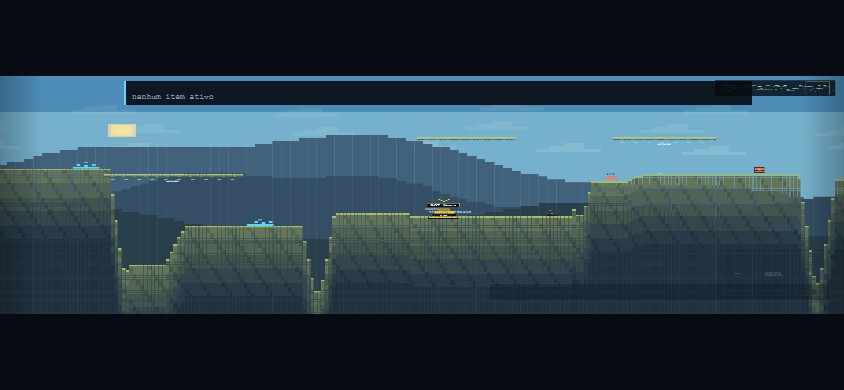
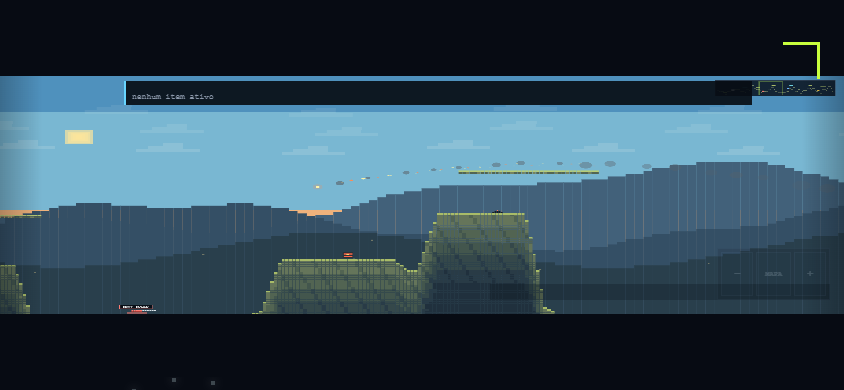
feat: rebrand game as TankDots Wars

Changed region(s): [[0.0, 0.3077, 1.0, 0.8308], [0.8934, 0.0923, 0.9858, 0.2462], [0.7085, 0.3385, 0.8626, 0.3692]]

diff --git a/client/styles.css b/client/styles.css
@@ -68,6 +68,69 @@ body.playing .desktop-help{flex:0 0 auto}
 .new-arsenal-art{position:relative;background-image:linear-gradient(145deg,#162231,#050a11)!important;overflow:hidden}.new-arsenal-art:before,.new-arsenal-art:after{content:'';position:absolute;image-rendering:pixelated}.new-arsenal-art.grenade:before{width:28%;height:28%;left:36%;top:34%;background:#a8d66d;box-shadow:-5px 5px #476534,5px -5px #dfff91,13px -13px 0 -4px #f2d76b}.new-arsenal-art.mineLayer:before{width:58%;height:14%;left:21%;top:55%;background:#303844;box-shadow:-15px -10px #ffb35c,15px -10px #ffb35c,0 -18px #ff714d}.new-arsenal-art.moleBomb:before{width:48%;height:24%;left:26%;top:42%;background:#d6a46f;box-shadow:-12px 7px #754b32,12px 7px #754b32,0 -8px #ffe2a8}.new-arsenal-art.armoredDash:before{width:48%;height:22%;left:34%;top:38%;background:#ff8066;box-shadow:-10px 7px #633b3c,-22px 4px #ffe66d,-32px 4px #ff713d}.new-arsenal-art:after{left:10%;right:10%;bottom:16%;height:3px;background:var(--item);box-shadow:0 6px #ffffff18}
 .new-arsenal-art.arsenal-new-atlas{background-image:url('/assets/arsenal-card-atlas-new-v2.png')!important;background-size:500% auto!important;background-position:calc(var(--new-art-col) * 25%) center!important;background-repeat:no-repeat!important}.new-arsenal-art.arsenal-new-atlas:before,.new-arsenal-art.arsenal-new-atlas:after{display:none}
 .spectator-badge{align-self:center;padding:7px 10px;border:1px solid #68d5ff;background:#081421;color:#9ee8ff;font:800 8px var(--mono);letter-spacing:1px}.spectator-badge[hidden]{display:none}body.spectating .controls,body.spectating .powerup-hud,body.spectating #turnBanner{display:none}body.spectating .canvas-wrap{flex:1}
+
+/* TankDots Wars identity — dot-built, tactical and intentionally minimal. */
+:root{--bg:#070b12;--panel:#0d1420;--line:#253247;--ink:#f4f7ed;--muted:#8290a2;--acid:#c8ff3d;--orange:#ff6847;--cyan:#4edcf2;--shadow:#020407}
+body{background:
+  radial-gradient(circle at 17% 20%,#20303b80 0,transparent 27%),
+  radial-gradient(circle at 86% 72%,#182b3180 0,transparent 31%),
+  linear-gradient(135deg,#080d16 0%,#05080e 100%)}
+body:before{content:'';position:fixed;inset:0;z-index:-1;pointer-events:none;opacity:.18;background-image:radial-gradient(circle,#76909c 1px,transparent 1.2px);background-size:22px 22px;mask-image:linear-gradient(90deg,#000,transparent 56%,#000)}
+.noise{opacity:.035;mix-blend-mode:screen}
+.brandbar{height:70px;padding-inline:clamp(18px,4.6vw,72px);background:#070b12e8;border-bottom:1px solid #263249;box-shadow:0 1px 0 #000;backdrop-filter:blur(14px)}
+.brandbar:after{content:'';position:absolute;left:clamp(18px,4.6vw,72px);right:clamp(18px,4.6vw,72px);bottom:-1px;height:1px;background:linear-gradient(90deg,var(--acid) 0 72px,transparent 72px)}
+.brand{gap:13px}
+.brand-mark{width:38px;height:38px;padding:7px;display:grid;place-items:stretch;grid-template-columns:repeat(3,1fr);grid-template-rows:repeat(3,1fr);gap:3px;background:#111b26;border:1px solid #334153;box-shadow:none;clip-path:none;transform:rotate(-2deg)}
+.brand-mark i{display:block;background:var(--acid);box-shadow:0 0 8px #c8ff3d42}
+.brand-mark i:nth-child(2),.brand-mark i:nth-child(4),.brand-mark i:nth-child(6),.brand-mark i:nth-child(8){background:#3d4a58;box-shadow:none}
+.brand-mark i:nth-child(5){background:var(--orange);box-shadow:0 0 10px #ff684766}
+.brand b,.brand i{font-size:19px;line-height:.85;letter-spacing:1.5px}
+.brand>span:last-child i{color:var(--acid);font-size:12px;letter-spacing:6.4px;margin-top:5px}
+.header-actions{gap:20px}.tutorial-button{border:1px solid #344155;background:#0c131e;color:#a9b3bf;padding:10px 13px;transition:border-color .18s,color .18s,background .18s}.tutorial-button:hover{background:#121d29;color:var(--acid)}
+.status{font-size:9px;letter-spacing:1px}.status span:first-child{border-radius:0;width:7px;height:7px;transform:rotate(45deg)}
+main,.screen{min-height:calc(100vh - 70px)}
+.home{max-width:1540px;display:grid!important;grid-template-columns:minmax(440px,1.08fr) minmax(390px,480px);align-items:center;padding:42px clamp(24px,6vw,96px) 58px;gap:clamp(44px,7vw,110px);overflow:hidden}
+.home:before{content:'TANKDOTS';position:absolute;z-index:-1;left:-.025em;bottom:-.1em;color:#ffffff08;font:clamp(120px,22vw,340px)/.72 var(--display);letter-spacing:-8px;white-space:nowrap}
+.hero-copy{width:100%;max-width:720px;position:relative}
+.hero-copy .eyebrow{display:flex;align-items:center;gap:10px;margin-bottom:16px;color:#abb7c4;font-size:10px;letter-spacing:2.2px}
+.hero-copy .eyebrow span{width:7px;height:7px;background:var(--acid);box-shadow:11px 0 var(--acid),22px 0 var(--orange);margin-right:22px}
+.hero-copy h1{display:grid;justify-items:start;margin:0;font:clamp(64px,7.8vw,116px)/.68 var(--display);letter-spacing:-2px;text-shadow:none}
+.hero-copy h1 span,.hero-copy h1 em,.hero-copy h1 strong{display:block;font:inherit}
+.hero-copy h1 span{color:var(--ink)}
+.hero-copy h1 em{margin-left:.44em;color:var(--acid);font-style:normal;-webkit-text-stroke:0;text-shadow:0 0 34px #c8ff3d1c}
+.hero-copy h1 strong{margin-left:1.06em;color:transparent;-webkit-text-stroke:1px #8290a2;font-size:.62em;letter-spacing:.18em;line-height:1.08}
+.hero-tagline{margin:18px 0 14px;color:#fff;font:900 11px var(--mono);letter-spacing:4px}
+.hero-battle{height:128px;max-width:610px;position:relative;overflow:hidden;border-top:1px solid #253247;border-bottom:1px solid #253247;background:linear-gradient(180deg,#111a25b8,#080d14d9)}
+.hero-battle:before{content:'';position:absolute;inset:0;background-image:radial-gradient(circle,#5d7080 1px,transparent 1.4px);background-size:16px 16px;opacity:.28}
+.dot-ground{position:absolute;left:-2%;right:-2%;bottom:-20px;height:54px;background:linear-gradient(180deg,#263646,#101923);clip-path:polygon(0 34%,5% 23%,10% 43%,16% 36%,22% 56%,28% 38%,35% 48%,42% 29%,49% 45%,56% 57%,63% 39%,70% 48%,76% 24%,83% 44%,89% 29%,95% 40%,100% 28%,100% 100%,0 100%)}
+.dot-ground:after{content:'';position:absolute;inset:0;background-image:radial-gradient(circle,#65788a 2px,transparent 2.4px);background-size:11px 11px;opacity:.38}
+.dot-tank{position:absolute;z-index:2;width:74px;height:45px;bottom:25px;color:var(--acid);filter:drop-shadow(0 7px 5px #000a)}
+.dot-tank-a{left:7%}.dot-tank-b{right:7%;color:var(--orange);transform:scaleX(-1)}
+.dot-tank i{position:absolute;left:5px;bottom:5px;width:61px;height:17px;background:currentColor;clip-path:polygon(8% 0,91% 0,100% 48%,88% 100%,10% 100%,0 48%)}
+.dot-tank i:after{content:'';position:absolute;left:8px;right:8px;top:5px;height:6px;background:#081018;box-shadow:-8px 0 #081018,8px 0 #081018}
+.dot-tank b{position:absolute;left:23px;bottom:21px;width:27px;height:15px;background:currentColor;box-shadow:7px -5px 0 -2px currentColor}
+.dot-tank span{position:absolute;left:44px;bottom:30px;width:31px;height:5px;background:currentColor;transform:rotate(-12deg);transform-origin:left center}
+.hero-trajectory i{position:absolute;z-index:3;width:4px;height:4px;background:#dffaff;box-shadow:0 0 9px #fff}
+.hero-trajectory i:nth-child(1){left:20%;bottom:72px}.hero-trajectory i:nth-child(2){left:30%;bottom:94px}.hero-trajectory i:nth-child(3){left:41%;bottom:105px}.hero-trajectory i:nth-child(4){left:52%;bottom:102px}.hero-trajectory i:nth-child(5){left:62%;bottom:85px}.hero-trajectory i:nth-child(6){left:70%;bottom:61px}
+.dot-blast{position:absolute;z-index:4;right:22%;bottom:36px}.dot-blast i{position:absolute;width:7px;height:7px;background:#fff4a5;box-shadow:0 0 12px #ffb43d}
+.dot-blast i:nth-child(1){transform:translate(-12px,-5px);background:var(--orange)}.dot-blast i:nth-child(2){transform:translate(5px,-18px)}.dot-blast i:nth-child(3){transform:translate(17px,-7px);background:var(--orange)}.dot-blast i:nth-child(4){transform:translate(2px,7px)}.dot-blast i:nth-child(5){transform:translate(-22px,-22px);width:4px;height:4px}.dot-blast i:nth-child(6){transform:translate(22px,-29px);width:5px;height:5px;background:var(--orange)}.dot-blast i:nth-child(7){transform:translate(-5px,-38px);width:4px;height:4px}
+.hero-copy .intro{max-width:610px;margin:18px 0;color:#99a7b6;font-size:13px;line-height:1.65}
+.feature-row{gap:8px;color:#a3afbd;font-size:8px;letter-spacing:.5px}.feature-row span{padding:8px 10px;border:1px solid #29364a;background:#0a1019}.feature-row span b{color:var(--acid);margin-right:5px}
+.home-panel{width:100%;padding:0;background:#0c131ee8;border:1px solid #2c394d;box-shadow:16px 18px 0 #020407,0 28px 70px #0008;position:relative}
+.home-panel:before{content:'';position:absolute;z-index:2;right:-1px;top:-1px;width:34px;height:34px;border-top:3px solid var(--acid);border-right:3px solid var(--acid);pointer-events:none}
+.panel-kicker{height:38px;padding:0 15px;display:flex;align-items:center;justify-content:space-between;border-bottom:1px solid #273448;color:#778598;font:800 8px var(--mono);letter-spacing:1.2px}
+.panel-kicker b{color:var(--acid);font-size:7px}.tabs{border-bottom-color:#2a374b}.tab{padding:15px;color:#647286;font-size:10px;letter-spacing:1px}.tab.active{color:#f5f8ef;background:#111b28;box-shadow:inset 0 -2px var(--acid)}
+.form{padding:20px}.form label{color:#8e9bac;font-size:8px;letter-spacing:1.1px;margin-bottom:12px}.form input,.form select{margin-top:6px;min-height:42px;background:#080e17;border:1px solid #243146;padding:10px 11px;color:#ecf3f1;transition:border-color .18s,background .18s}.form input:hover,.form select:hover{background:#0b131f}.form input:focus,.form select:focus{border-color:var(--cyan);box-shadow:0 0 0 1px #4edcf22e}.grid-2{gap:0 10px}.toggle-row{margin:2px 0 16px}.switch span{background:#263245}.switch input:checked+span{background:#33471d}.switch input:checked+span:after{background:var(--acid)}
+.primary{min-height:48px;background:var(--acid);color:#07100d;box-shadow:none;position:relative;overflow:hidden}.primary:after{content:'';position:absolute;inset:0;background:linear-gradient(110deg,transparent 35%,#fff7 50%,transparent 65%);transform:translateX(-120%);transition:transform .45s}.primary:hover{transform:none;filter:brightness(1.04)}.primary:hover:after{transform:translateX(120%)}
+.secondary{border-color:#2b384c;color:#8795a7}.secondary:hover{border-color:var(--cyan);color:#dffbff}
+@media(max-width:950px){.home{grid-template-columns:minmax(360px,1fr) minmax(360px,430px);padding-inline:24px;gap:32px}.hero-copy h1{font-size:74px}.hero-battle{height:112px}}
+@media(max-width:800px){
+  .brandbar{height:58px;padding-inline:13px}.brandbar:after{left:13px;right:13px}.brand-mark{width:32px;height:32px;padding:6px}.brand b{font-size:16px}.brand>span:last-child i{font-size:10px;letter-spacing:5px}.tutorial-button{padding:7px 8px;font-size:8px}
+  main,.screen{min-height:calc(100vh - 58px)}.home{display:flex!important;overflow:visible;padding:26px 12px 42px;gap:25px}.home:before{position:fixed;font-size:120px;bottom:0}.hero-copy{max-width:560px;margin:auto}.hero-copy .eyebrow{font-size:8px;letter-spacing:1.5px}.hero-copy h1{font-size:clamp(58px,20vw,88px)}.hero-tagline{font-size:9px;letter-spacing:2.4px}.hero-battle{height:108px}.hero-copy .intro{font-size:12px;margin-block:14px}.feature-row{display:grid;grid-template-columns:1fr}.feature-row span{padding:7px 9px}.home-panel{max-width:560px;margin:auto;box-shadow:8px 10px 0 #020407,0 20px 45px #0007}.form{padding:16px 13px}.panel-kicker{padding-inline:11px}
+}
+@media(max-width:390px){.hero-copy h1{font-size:57px}.hero-battle{height:96px}.dot-tank-b{right:4%}.dot-tank-a{left:4%}.grid-2{gap:0 7px}.form label{font-size:7px}.panel-kicker b{display:none}}
+@media(prefers-reduced-motion:no-preference){.dot-blast{animation:dotPulse 1.35s steps(2,end) infinite}.hero-trajectory i{animation:dotGlint 1.8s ease-in-out infinite}.hero-trajectory i:nth-child(2){animation-delay:.15s}.hero-trajectory i:nth-child(3){animation-delay:.3s}.hero-trajectory i:nth-child(4){animation-delay:.45s}.hero-trajectory i:nth-child(5){animation-delay:.6s}.hero-trajectory i:nth-child(6){animation-delay:.75s}}
+@keyframes dotPulse{50%{filter:brightness(1.7);transform:scale(1.12)}}@keyframes dotGlint{0%,65%,100%{opacity:.25}25%{opacity:1}}
 .game button,.game input,.controls,.movement{touch-action:none;-webkit-user-select:none;user-select:none}.movement button{-webkit-tap-highlight-color:transparent}.new-arsenal-art.verticalStrike:before{width:10%;height:68%;left:45%;top:12%;background:#e9feff;box-shadow:-7px 0 #42ddec,7px 0 #168ca0}.new-arsenal-art.verticalStrike:after{left:25%;right:25%;bottom:12%;height:8%;background:#63f3ff;box-shadow:0 -8px #ffffff}
 .arsenal-card-art{aspect-ratio:1/1}.hud-arsenal-art{width:30px;height:30px}.reward-box .card-art{aspect-ratio:1/1}
 .zoom-controls{position:absolute;z-index:18;right:14px;bottom:14px;display:flex;gap:3px;padding:3px;background:#050a12cc;border:1px solid #314056}.zoom-controls button{min-width:32px;height:30px;padding:0 8px;border:1px solid #35465e;background:#101b2a;color:#d9e5ef;font:900 11px var(--mono);cursor:pointer}.zoom-controls button:hover{border-color:var(--acid);color:var(--acid)}#zoomFit{font-size:7px}.game.focus .zoom-controls{opacity:.15}@media(max-width:700px){.zoom-controls{right:7px;bottom:7px}.zoom-controls button{height:28px;min-width:28px;padding-inline:6px}}

diff --git a/client/index.html b/client/index.html
@@ -3,16 +3,17 @@
 <head>
   <meta charset="UTF-8">
   <meta name="viewport" content="width=device-width,initial-scale=1,viewport-fit=cover,user-scalable=no">
-  <meta name="theme-color" content="#0c1324">
-  <title>Pixel Tanks — Arena Tática</title>
+  <meta name="theme-color" content="#070b12">
+  <meta name="description" content="TankDots Wars — artilharia multiplayer em arenas de microblocos totalmente destrutíveis.">
+  <title>TankDots Wars — Microblock Artillery</title>
   <link rel="stylesheet" href="/styles.css">
 </head>
 <body>
   <div class="noise"></div>
   <header class="brandbar">
-    <a class="brand" href="/" aria-label="Pixel Tanks">
-      <span class="brand-mark">PT</span>
-      <span><b>PIXEL</b><i>TANKS</i></span>
+    <a class="brand" href="/" aria-label="TankDots Wars">
+      <span class="brand-mark" aria-hidden="true"><i></i><i></i><i></i><i></i><i></i><i></i><i></i><i></i><i></i></span>
+      <span><b>TANKDOTS</b><i>WARS</i></span>
     </a>
     <div class="header-actions">
       <button id="tutorialButton" class="tutorial-button">? COMO JOGAR</button>
@@ -23,14 +24,23 @@
   <main>
     <section id="homeScreen" class="screen home active">
       <div class="hero-copy">
-        <p class="eyebrow">ARTILHARIA DE MICROBLOCOS • MULTIPLAYER LAN</p>
-        <h1>MIRE.<br><em>CALCULE.</em><br>SOBREVIVA.</h1>
-        <p class="intro">Um mundo inteiro feito de pequenos blocos físicos. Cada disparo desmonta o terreno, espalha partículas e redesenha a batalha.</p>
+        <p class="eyebrow"><span></span> ARTILHARIA DE MICROBLOCOS • ONLINE + LAN</p>
+        <h1><span>TANK</span><em>DOTS</em><strong>WARS</strong></h1>
+        <p class="hero-tagline">CADA PONTO MUDA A GUERRA.</p>
+        <div class="hero-battle" aria-hidden="true">
+          <div class="hero-trajectory"><i></i><i></i><i></i><i></i><i></i><i></i></div>
+          <div class="dot-tank dot-tank-a"><i></i><b></b><span></span></div>
+          <div class="dot-blast"><i></i><i></i><i></i><i></i><i></i><i></i><i></i></div>
+          <div class="dot-tank dot-tank-b"><i></i><b></b><span></span></div>
+          <div class="dot-ground"></div>
+        </div>
+        <p class="intro">Comande um tanque feito de pequenos blocos. Calcule o disparo, revele poderes enterrados e transforme a arena até restar apenas um.</p>
         <div class="feature-row">
-          <span>◈ MUNDO EM BLOCOS</span><span>✦ DESTRUIÇÃO FÍSICA</span><span>⌁ TURNOS RÁPIDOS</span>
+          <span><b>01</b> TERRENO DESTRUTÍVEL</span><span><b>02</b> PODERES TÁTICOS</span><span><b>03</b> SOLO, COOP E PVP</span>
         </div>
       </div>
       <div class="home-panel panel">
+        <div class="panel-kicker"><span>MONTE SUA PARTIDA</span><b>● SERVIDOR ATIVO</b></div>
         <div class="tabs" role="tablist">
           <button class="tab active" data-tab="create">CRIAR SALA</button>
           <button class="tab" data-tab="join">ENTRAR</button>

diff --git a/server/index.js b/server/index.js
@@ -15,7 +15,7 @@ app.get('/health', (_req, res) => res.json({ ok: true }));
 const port = Number(process.env.PORT) || 3000;
 const server = app.listen(port, '0.0.0.0', () => {
   const ips = Object.values(os.networkInterfaces()).flat().filter((n) => n?.family === 'IPv4' && !n.internal).map((n) => n.address);
-  console.log('\n=================================\n PIXEL TANKS SERVER\n=================================');
+  console.log('\n=================================\n TANKDOTS WARS SERVER\n=================================');
   console.log(`Local: http://localhost:${port}`);
   for (const ip of ips) console.log(`LAN:   http://${ip}:${port}`);
   console.log('Players: 0/10\nRooms: 0\n');
@@ -42,7 +42,7 @@ function broadcastShot(room, shot) {
 }
 
 wss.on('connection', (ws) => {
-  send(ws, SERVER.WELCOME, { message: 'Conectado ao Pixel Tanks' });
+  send(ws, SERVER.WELCOME, { message: 'Conectado ao TankDots Wars' });
   ws.on('message', (raw) => {
     try {
       const { type, payload = {} } = JSON.parse(raw.toString());

diff --git a/README.md b/README.md
@@ -1,10 +1,12 @@
-# Pixel Tanks
+# TankDots Wars
 
 > Artilharia multiplayer por turnos em um mundo de microblocos totalmente destrutível.
 
-![Tela inicial do Pixel Tanks](docs/screenshots/home.png)
+![Tela inicial do TankDots Wars](docs/screenshots/home.png)
 
-Pixel Tanks é um jogo de estratégia e artilharia para navegador, feito para partidas locais ou em LAN. Cada disparo altera o campo de batalha: abre crateras, revela itens, ativa objetos e pode derrubar tanques no vazio. Não há instalação no cliente — basta abrir o endereço do servidor no navegador.
+![Tela inicial do TankDots Wars no celular](docs/screenshots/home-mobile.png)
+
+TankDots Wars é um jogo de estratégia e artilharia para navegador, feito para partidas locais ou em LAN. Cada disparo altera o campo de batalha: abre crateras, revela itens, ativa objetos e pode derrubar tanques no vazio. Não há instalação no cliente — basta abrir o endereço do servidor no navegador.
 
 ## Destaques
 
@@ -42,7 +44,7 @@ Cada comandante escolhe exatamente três itens no saguão. As habilidades têm u
 
 ## A batalha
 
-![Partida do Pixel Tanks](docs/screenshots/battle.png)
+![Partida do TankDots Wars](docs/screenshots/battle.png)
 
 ![Interface mobile com inventário separado da mira](docs/screenshots/battle-mobile.png)
 
@@ -74,8 +76,8 @@ O repositório inclui `render.yaml`, configurado como um Web Service Node com he
 1. Envie a versão atual para o GitHub.
 2. No Render, escolha **New + → Blueprint**.
 3. Conecte o repositório `SeuCarlin/Pixel_Tanks`.
-4. Confirme a criação do serviço `pixel-tanks`.
-5. Ao terminar o deploy, compartilhe a URL `https://pixel-tanks-....onrender.com`.
+4. Confirme a criação do serviço `tankdots-wars`.
+5. Ao terminar o deploy, compartilhe a URL `https://tankdots-wars-....onrender.com`.
 
 O navegador troca automaticamente de `ws://` para `wss://` quando o site usa HTTPS. Jogadores entram normalmente por código; espectadores informam o mesmo código e usam **Assistir como espectador**. Espectadores não ocupam vagas, podem entrar durante uma partida e participam do chat.
 
@@ -147,11 +149,11 @@ A suíte cobre configuração e recarga do Arsenal, recompensas periódicas, vel
 Com o servidor rodando na porta `3012`:
 
 ```powershell
-$env:PIXEL_TANKS_URL='http://localhost:3012'
+$env:TANKDOTS_WARS_URL='http://localhost:3012'
 node scripts/capture-screenshots.mjs
 ```
 
-O script usa o Google Chrome instalado no Windows e recria as quatro imagens de documentação.
+O script usa o Google Chrome instalado no Windows e recria as imagens de documentação em desktop e mobile.
 
 ## Tecnologias
 
